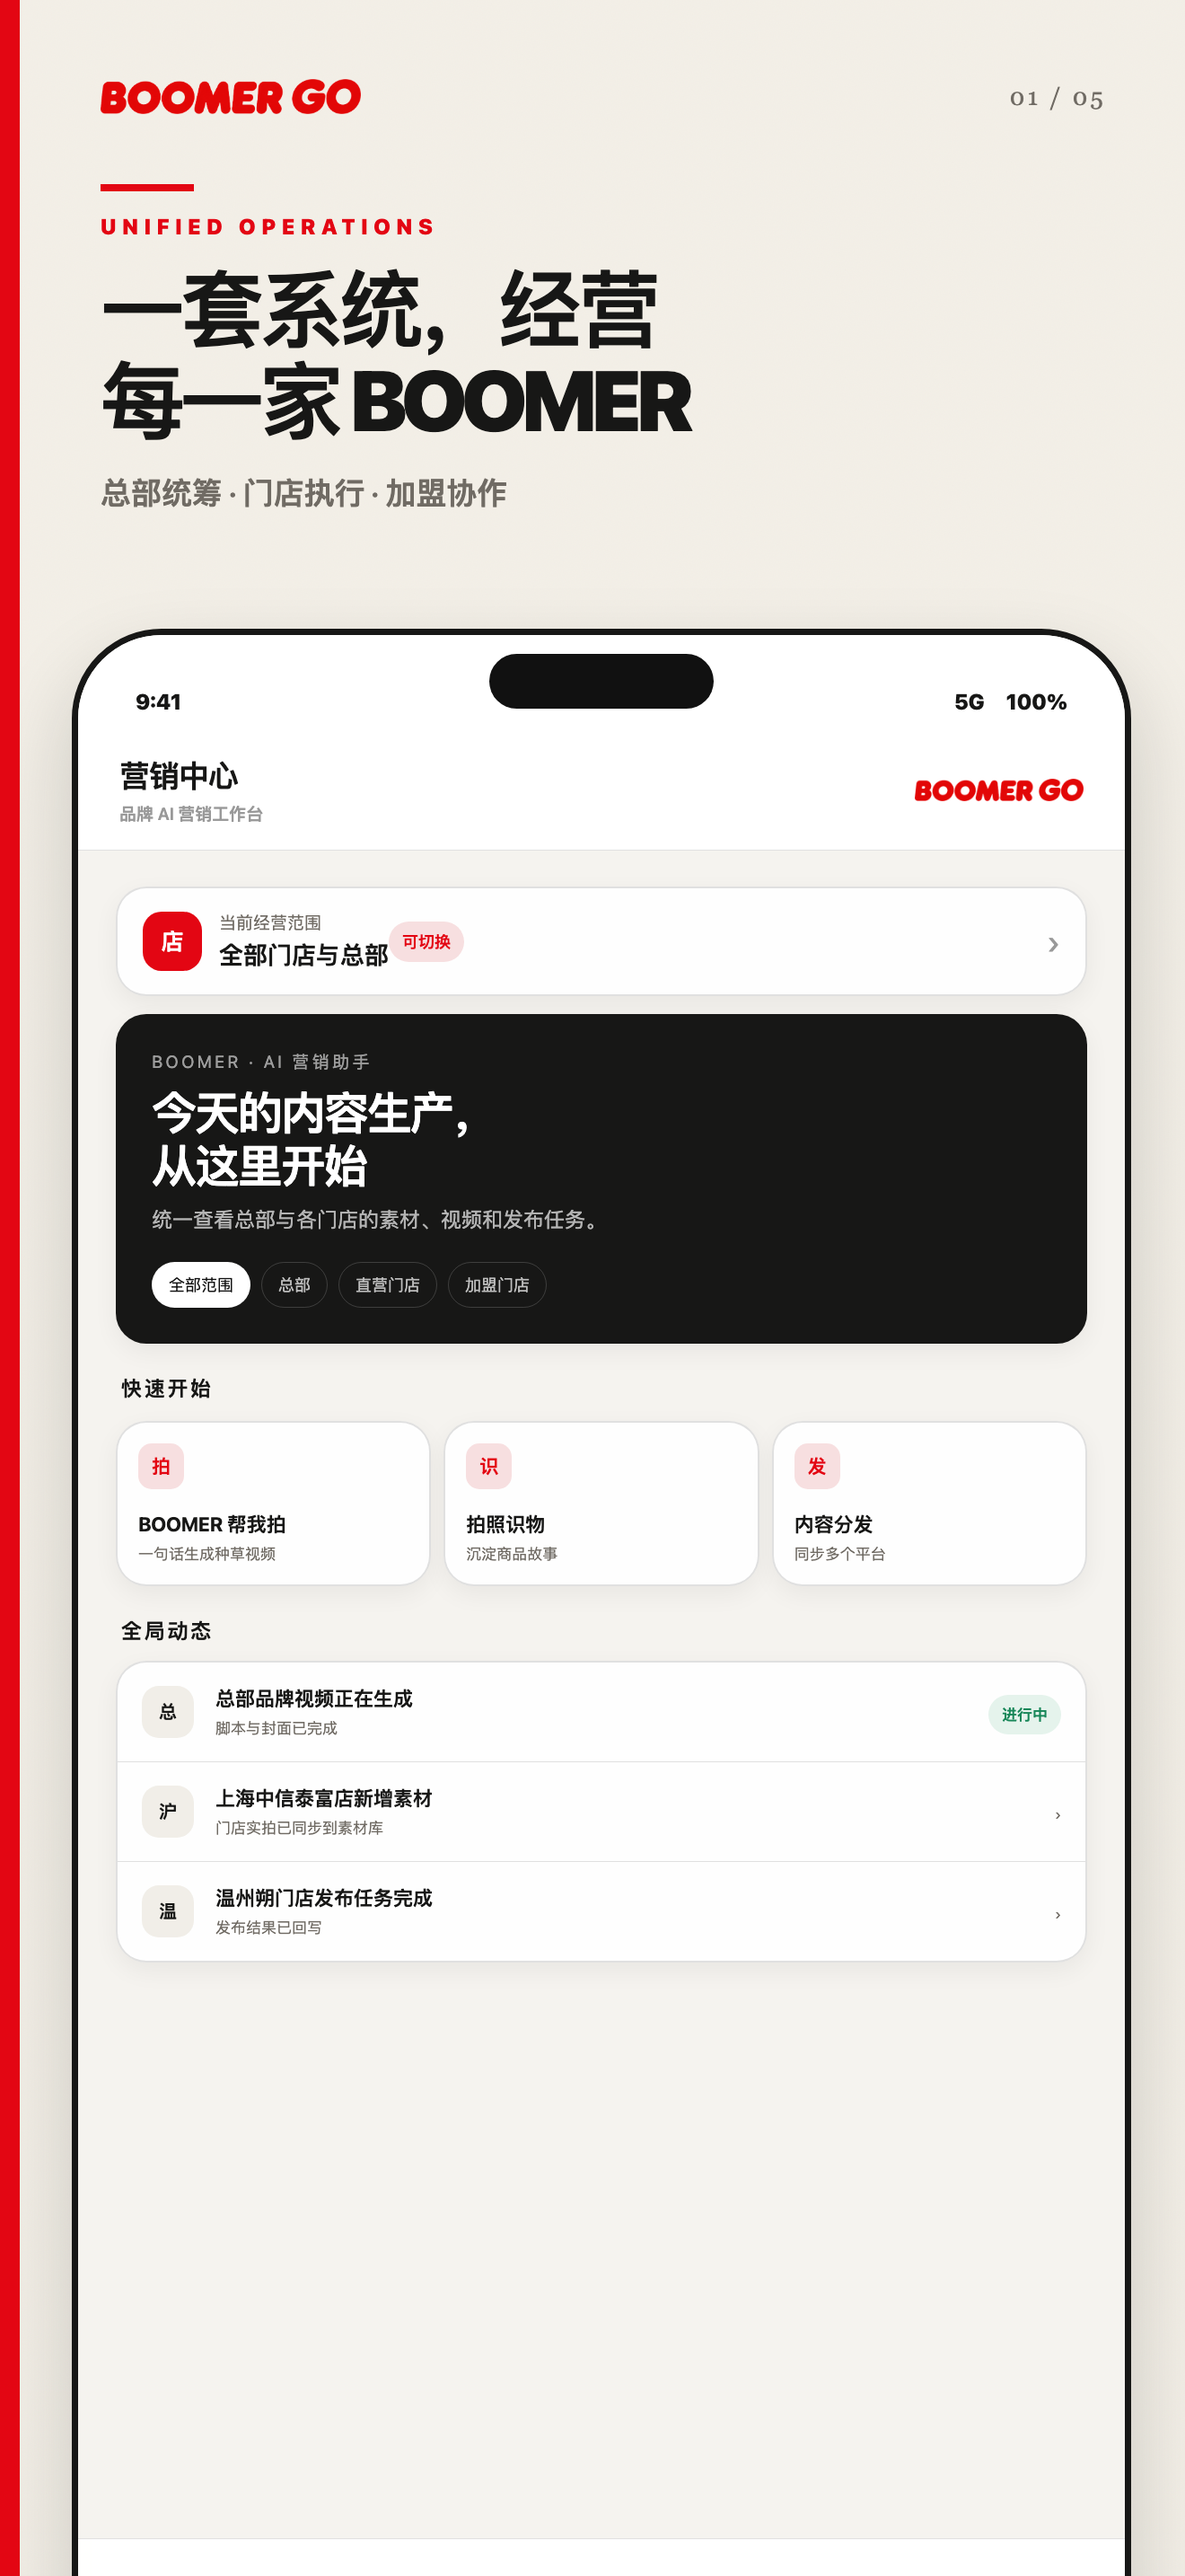
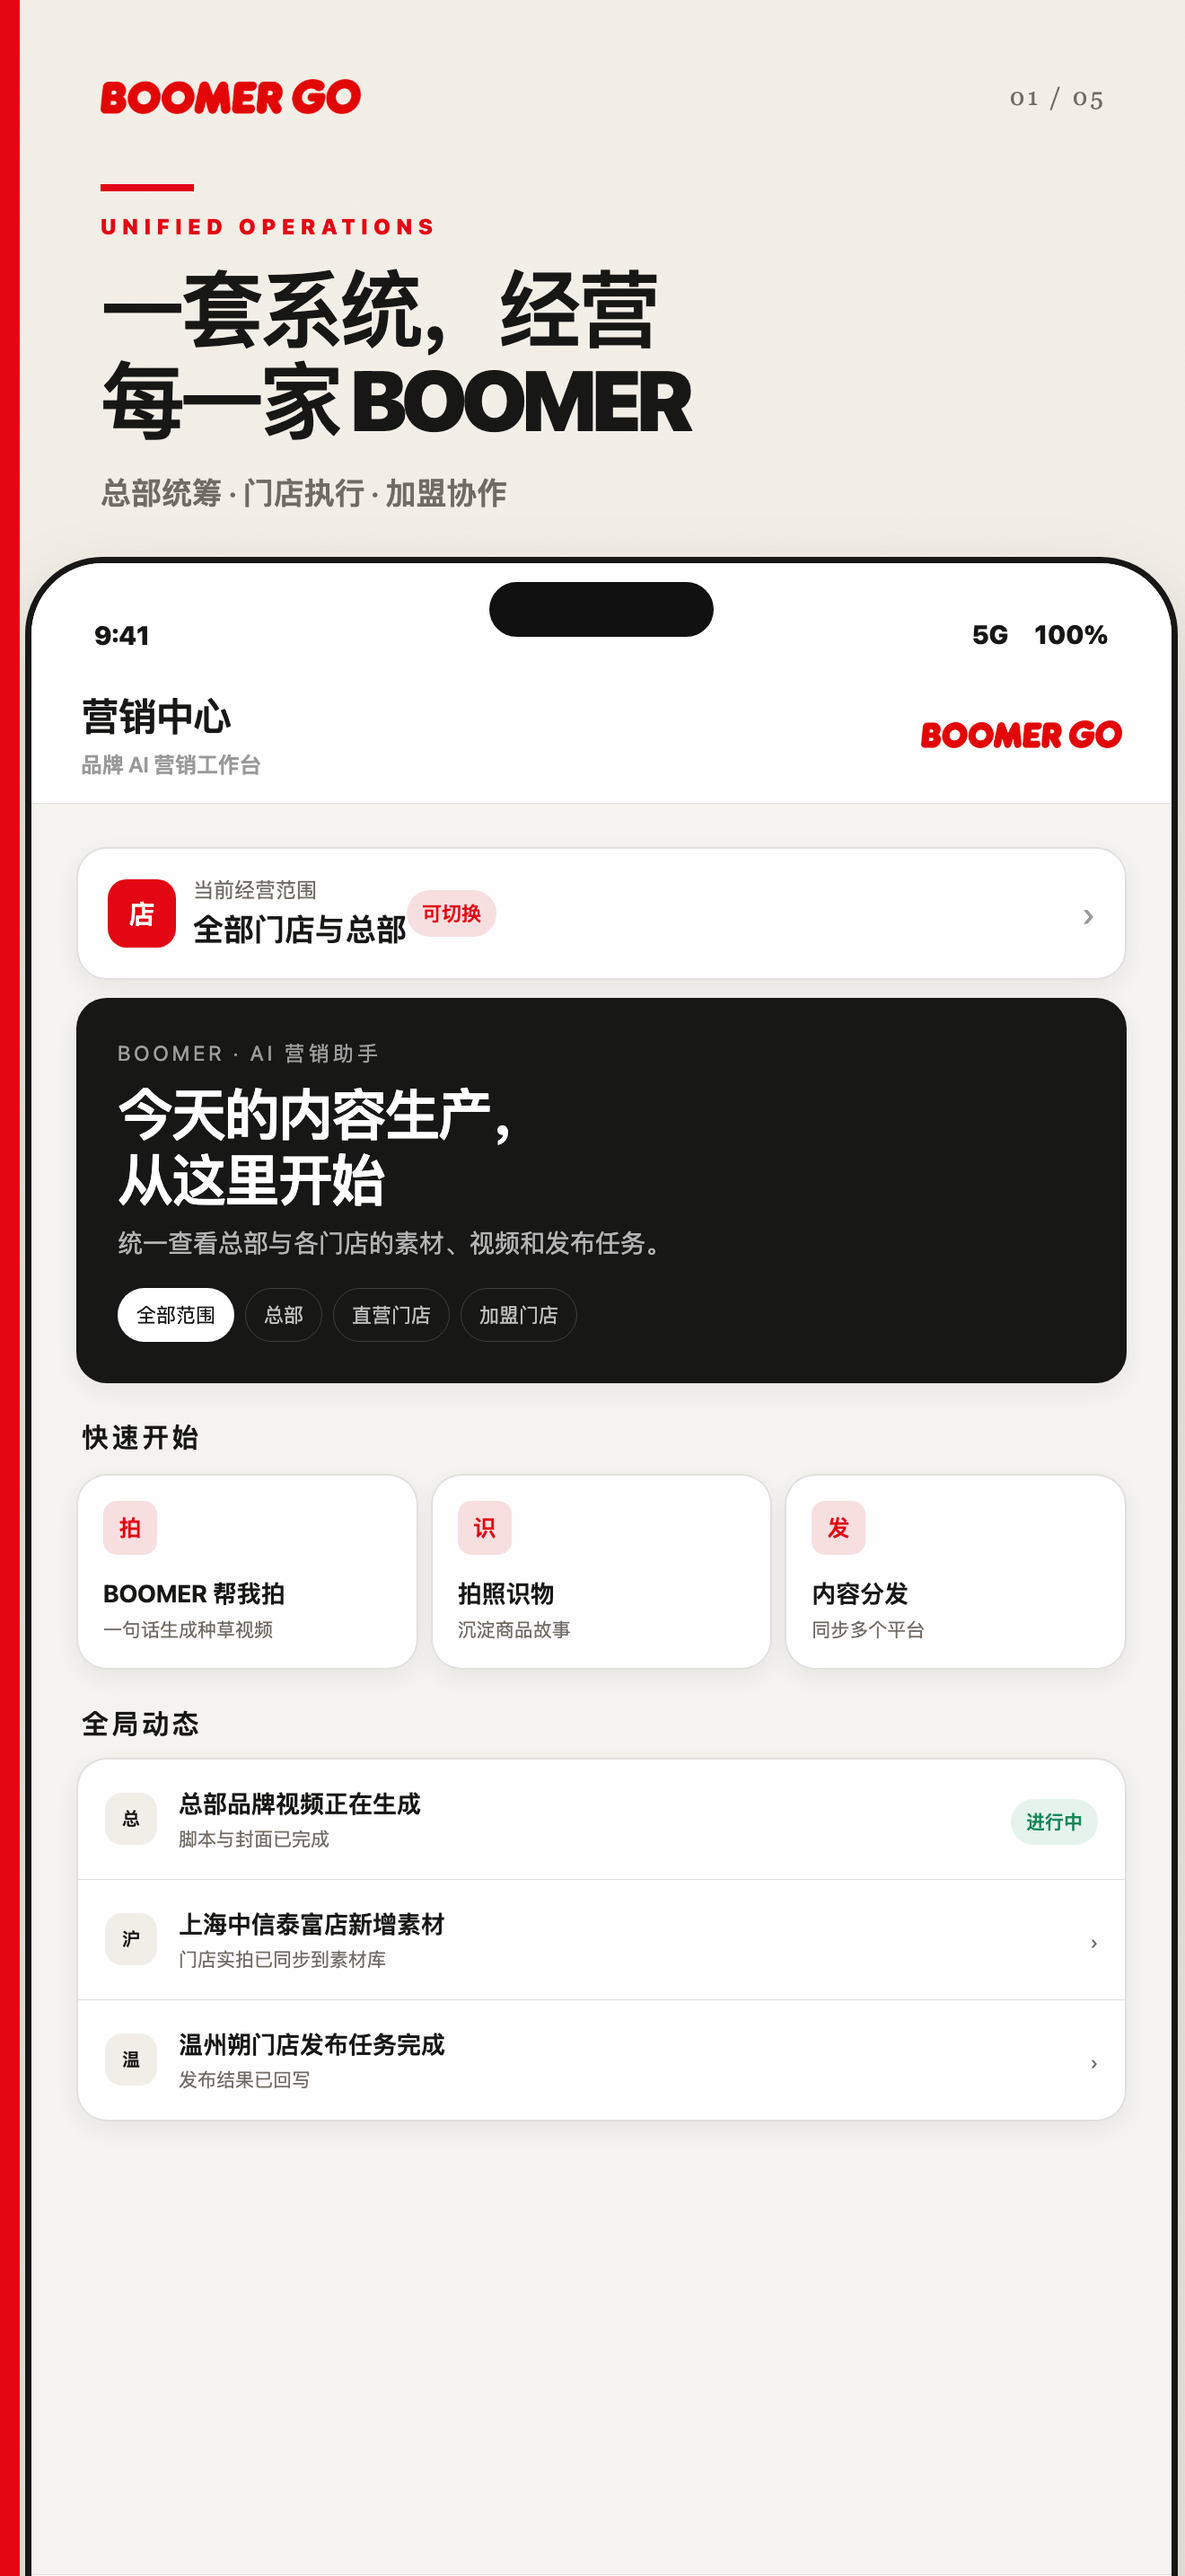
feat: add premium BOOMER GO App Store artwork

Changed region(s): [[0.0, 0.2172, 0.9939, 1.0]]

diff --git a/docs/app-store/preview-source.html b/docs/app-store/preview-source.html
@@ -151,6 +151,73 @@
     .copy-block h3 { margin: 0; font-size: 25px; }
     .copy-block p { margin: 14px 0 0; color: #5f5a54; font-size: 19px; line-height: 1.65; }
     .copy-tags { margin-top: 15px; color: var(--red); font-size: 18px; font-weight: 800; line-height: 1.55; }
+
+    /* App Store thumbnails need a close crop and presentation-scale type. */
+    .stage { left: 28px; right: 8px; top: 620px; bottom: -160px; }
+    .phone { border-width: 7px; border-radius: 86px 86px 0 0; }
+    .status { height: 114px; padding: 45px 70px 0; font-size: 29px; }
+    .appbar { height: 154px; padding: 0 55px; gap: 25px; }
+    .app-title { font-size: 43px; }
+    .app-subtitle { margin-top: 7px; font-size: 24px; }
+    .mini-mark { width: 224px; }
+    .screen { padding: 48px 50px 190px; }
+    .store-picker { padding: 30px 33px; }
+    .store-icon { width: 76px; height: 76px; font-size: 29px; }
+    .store-copy span { font-size: 23px; }
+    .store-copy b { font-size: 34px; }
+    .badge { padding: 11px 17px; font-size: 22px; }
+    .section-label { margin-top: 39px; font-size: 30px; }
+    .hero-ops { padding: 44px; }
+    .hero-ops small { font-size: 23px; }
+    .hero-ops h2 { font-size: 62px; }
+    .hero-ops p { font-size: 28px; }
+    .scope span { padding: 14px 20px; font-size: 22px; }
+    .quick-action { min-height: 205px; padding: 28px; }
+    .quick-action .qicon { width: 60px; height: 60px; font-size: 25px; }
+    .quick-action b { font-size: 27px; }
+    .quick-action span { font-size: 21px; }
+    .work-row { padding: 30px; }
+    .work-row b { font-size: 27px; }
+    .work-row span { font-size: 21px; }
+    .process { padding: 28px 33px; }
+    .director-cover { height: 600px; }
+    .director-cover::after { font-size: 52px; }
+    .director-body { padding: 36px; }
+    .director-body h3 { font-size: 35px; }
+    .script-line { grid-template-columns: 66px 1fr; padding: 24px 0; }
+    .script-index { font-size: 25px; }
+    .script-line p { font-size: 25px; }
+    .result-tool { padding: 24px 15px; font-size: 23px; }
+    .button { min-height: 96px; font-size: 31px; }
+    .capture { height: 720px; }
+    .capture-label { font-size: 27px; }
+    .story { padding: 38px; }
+    .story h3 { font-size: 44px; }
+    .story p { font-size: 26px; }
+    .story-tags span { font-size: 21px; }
+    .overview { padding: 39px; }
+    .overview h2 { font-size: 50px; }
+    .overview-meta { font-size: 23px; }
+    .overview-metric b { font-size: 41px; }
+    .overview-metric span { font-size: 20px; }
+    .store-row { padding: 31px; }
+    .store-rank { width: 58px; height: 58px; font-size: 22px; }
+    .store-row h3 { font-size: 30px; }
+    .store-foot { font-size: 21px; }
+    .activity-row b { font-size: 25px; }
+    .activity-row span, .activity-time { font-size: 20px; }
+    .publish-thumb { width: 218px; height: 285px; }
+    .publish-info h3 { font-size: 36px; }
+    .publish-info p { font-size: 23px; }
+    .platform { padding: 29px 31px; }
+    .platform-icon { width: 64px; height: 64px; font-size: 23px; }
+    .platform b { font-size: 27px; }
+    .platform span { font-size: 21px; }
+    .publish-status { font-size: 22px; }
+    .copy-block { padding: 34px; }
+    .copy-block h3 { font-size: 32px; }
+    .copy-block p { font-size: 24px; }
+    .copy-tags { font-size: 22px; }
   </style>
 </head>
 <body>

diff --git a/docs/app-store/metadata-zh-CN.md b/docs/app-store/metadata-zh-CN.md
@@ -1,0 +1,99 @@
+# BOOMER GO App Store 资料（简体中文）
+
+## 基本信息
+
+- App 名称：BOOMER GO
+- 副标题：门店运营与 AI 营销助手
+- Bundle ID：com.boomeroff.go
+- 版本：1.0.3
+- SKU：BOOMER-GO-IOS-001
+- 主类别建议：商务
+- 次类别建议：效率
+
+## 宣传文本
+
+拍照识别中古好物，一句话生成门店营销视频，统一管理素材、知识、任务与内容发布。BOOMER GO 让门店日常运营更清楚、更高效。
+
+## App 描述
+
+BOOMER GO 是 BOOMER OFF 团队使用的门店运营与 AI 营销工作台，将商品识别、知识学习、素材管理、内容创作和门店协作集中在一个 App 中。
+
+【AI 拍照识物】
+对准中古商品拍照，快速获得品类、年代、材质、文化背景、保养建议与商品故事，帮助门店成员更快认识商品、服务顾客。
+
+【智能营销视频】
+选择当前门店和参考素材，用自然语言说明需求，即可生成营销脚本、视频、封面和发布文案。生成结果自动进入素材库，方便下载与后续发布。
+
+【门店素材库】
+按门店归档图片、视频与文案，统一管理 AI 生成内容和历史产出，支持预览、复制、下载及进入内容发布流程。
+
+【门店运营协作】
+查看门店任务、排班、活动、通知、SOP、顾客问答和个人记录，让总部与门店成员在同一套工作流中协作。
+
+【内容分发】
+将已完成的素材带入发布中心，统一确认标题、正文、话题和平台账号，跟踪内容发布进度与结果。
+
+BOOMER GO 主要服务于已加入 BOOMER OFF 运营体系的成员。部分功能需要登录并获得对应门店权限后使用。
+
+## 关键词
+
+中古,杂货,AI识图,门店运营,营销视频,素材库,员工培训,内容发布
+
+## URL
+
+- 支持 URL：https://ai.boomeroff.com/support
+- 隐私政策 URL：https://ai.boomeroff.com/privacy
+- 营销 URL：https://www.boomeroff.com/
+
+## 版本更新说明
+
+BOOMER GO 正式上线：
+
+- 新增 AI 拍照识物与商品故事
+- 新增门店营销视频、封面与发布文案生成
+- 新增门店素材库和内容发布中心
+- 支持任务、排班、通知、SOP 与门店协作
+
+## App Store 预览图
+
+最终上架文件位于 `docs/app-store/previews-image2/`，顺序为：
+
+1. 首页 / 统一经营
+2. BOOMER 帮我拍
+3. AI 拍照识物
+4. AI 视频
+5. 知识库
+
+旧的 `previews-v2/` 仅作为可重复渲染的界面底稿，不用于 App Store 上传。
+
+## 审核备注草案
+
+BOOMER GO is a store operations and AI marketing app for BOOMER OFF team members.
+
+The review account will be provided in App Review Information. After login, the main functions are:
+
+1. AI product recognition: open the camera tab and take or select a product photo.
+2. AI marketing video: Me > Marketing Center > BOOMER Video.
+3. Asset library and publishing: Me > Marketing Center > Asset Library / Content Publishing Center.
+4. Store operations: Home and Me include tasks, schedules, SOP and notifications.
+
+Camera access is used only after the reviewer taps the camera action. Photo library access is used to select source materials and save generated images or videos. Push notifications are optional.
+
+## App 隐私信息建议清单
+
+实际勾选前需要在 App Store Connect 再按 Apple 问卷逐项确认：
+
+- 联系信息：手机号、电子邮件地址
+- 用户内容：照片或视频、其他用户内容
+- 标识符：用户 ID、设备推送令牌
+- 使用数据：产品交互、必要操作日志
+- 诊断：崩溃或性能数据（仅在实际收集时勾选）
+- 追踪：否
+- 数据出售：否
+
+## 上架前仍需确认
+
+- 审核专用账号与密码
+- 审核联系人姓名、电话、邮箱
+- 是否在欧盟地区提供下载及 DSA 交易者身份
+- 内容版权、AI 生成内容和平台账号授权由运营方确认

diff --git a/docs/superpowers/specs/2026-09-03-boomer-go-app-store-preview-design.md b/docs/superpowers/specs/2026-09-03-boomer-go-app-store-preview-design.md
@@ -6,46 +6,47 @@
 
 ## 已确认方向
 
-采用“总部级经营中台”作为信息骨架，加入“中古品牌编辑部”的材质与气质：
+采用“总部级经营中台”作为信息骨架，加入克制的品牌编辑部材质与气质：
 
 - 米白纸张感背景，而非纯白模板。
 - BOOMER 红作为唯一强动作色，占比约 15%。
 - 深炭黑用于标题与设备框架。
-- 少量暖灰、旧纸纹理和编辑排版细节，体现中古品牌感。
+- 少量暖灰、纸张纹理和编辑排版细节，体现中古品牌感。
 - 不使用渐变科技紫、玻璃拟态、通用 SaaS 插画或悬浮功能图标堆叠。
+- 不使用日本街景、浮世绘、日文、印章或其他与真实产品无关的装饰。
 
 ## 五张叙事
 
-1. **统一经营**
+1. **首页 / 统一经营**
    - 主标题：`一套系统，经营每一家 BOOMER`
    - 副标题：`总部统筹 · 门店执行 · 加盟协作`
    - 界面：营销中心首页与当前门店切换。
 
-2. **AI 营销**
+2. **BOOMER 助手**
    - 主标题：`一句话，拍出门店种草视频`
    - 副标题：`脚本、画面、封面与发布文案自动完成`
    - 界面：BOOMER 帮我拍脚本与视频结果。
 
-3. **商品识别**
+3. **AI 识图**
    - 主标题：`拍一下，沉淀每件好物的故事`
    - 副标题：`识别商品 · 生成内容 · 归档素材`
    - 界面：拍照识图结果与商品故事。
 
-4. **多店协作**
-   - 主标题：`总部与门店，实时协同`
-   - 副标题：`任务、素材与经营进度清晰可见`
-   - 界面：门店切换、任务状态与素材统计。
+4. **AI 视频**
+   - 主标题：`脚本、分镜、角色，精准生成`
+   - 副标题：`每个镜头都在掌控之中`
+   - 界面：脚本简述、分镜、参考图、角色一致性和 Seedance 设置。
 
-5. **全域分发**
-   - 主标题：`好内容，一键发到所有平台`
-   - 副标题：`账号统一管理 · 发布状态实时追踪`
-   - 界面：内容分发中心与平台发布状态。
+5. **知识库**
+   - 主标题：`把每次识别，变成团队知识`
+   - 副标题：`官方标准 · 门店经验 · 持续沉淀`
+   - 界面：官方知识库、个人知识库、品类筛选与知识条目。
 
 ## 单张版式
 
 - 输出尺寸：`1320 × 2868 px`，适配 6.9 英寸 iPhone 截图规格。
 - 顶部 28%：大标题、短副标题、BOOMER GO 品牌标识。
-- 中下部 72%：真实产品界面设备框，允许局部放大关键状态。
+- 中下部 75%：真实产品界面设备近景，必须放大到缩略图中仍可阅读。
 - 标题保持 2 至 3 行，第一屏不超过 22 个汉字。
 - 每张只表达一个价值，不添加评价、虚构经营数字或未经验证的功能。
 - 五张的标题基线、设备尺寸与品牌位置一致，形成连续浏览节奏。
@@ -64,4 +65,5 @@
 - 第一张能明确说明这是总部、门店、加盟商共用的经营软件。
 - 至少 70% 的主体画面来自真实可用的 BOOMER GO 界面，而非装饰插画。
 - 五张之间视觉一致，但产品画面和构图不机械重复。
+- Image 2 仅用于设备、材质、光影和构图美化，核心界面信息必须来自 BOOMER GO 页面。
 - 不包含错误门店、虚构平台能力、错误 Logo 或不可用页面。
